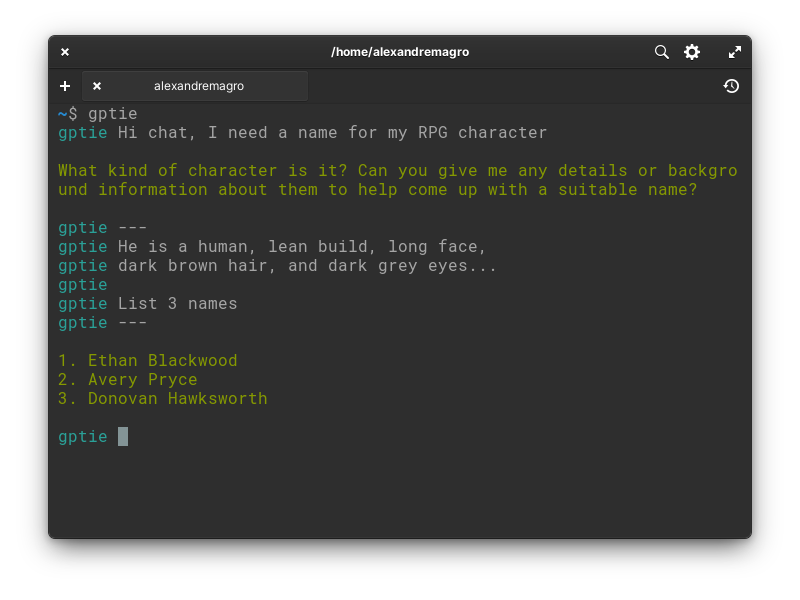
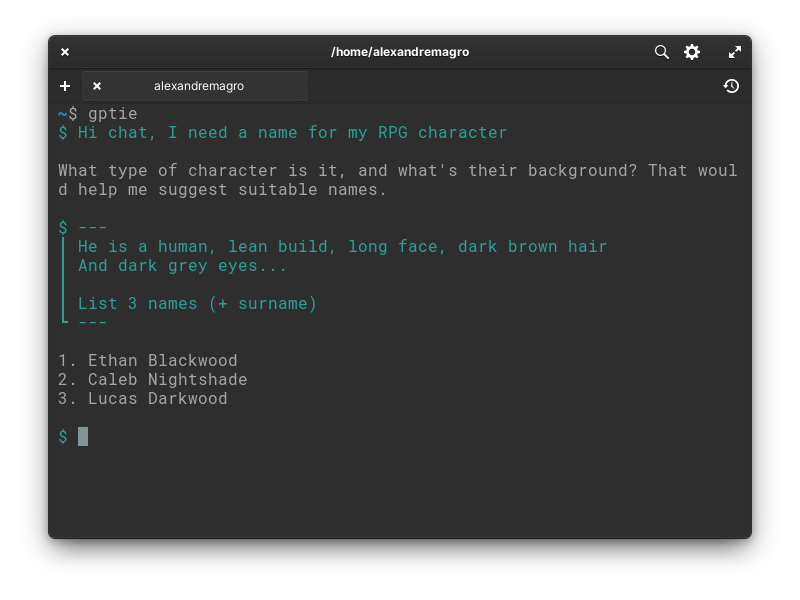
Update examples

diff --git a/README.md b/README.md
@@ -32,7 +32,11 @@ Just type, use `---` delimiter to write multiple lines, and `Ctrl-C` to exit.
 Redirect `stdout` or `stderr` with pipe (`|`), and preprend a message with argument `-q`.
 
 <p align="center">
-  <img src="assets/example-advanced.png"/>
+  <img src="assets/example-stdout.png"/>
+</p>
+
+<p align="center">
+  <img src="assets/example-stderr.png"/>
 </p>
 
 ## Arguments
